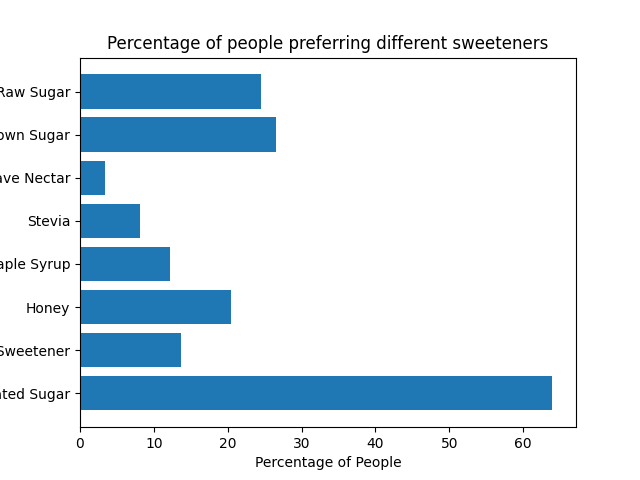
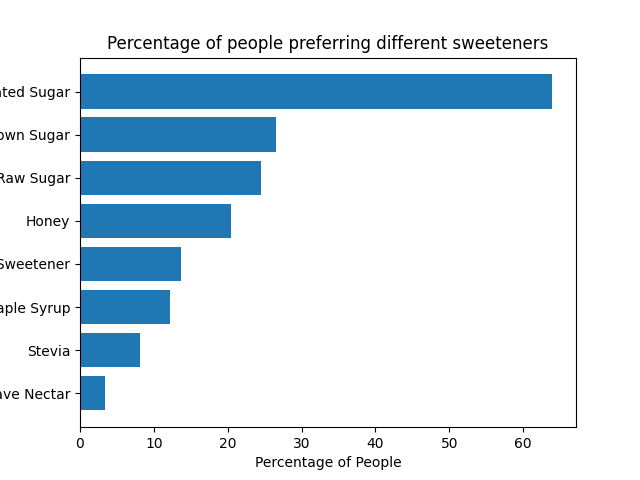
Data cleaning - Coffee brewing methods

diff --git a/src/main.py b/src/main.py
@@ -109,6 +109,8 @@ print(sweeteners)
 # Find the percentage of sweeteners perferred.
 sweeteners_choice = sweeteners.mean() * 100
 print("\nPercentage of customers that prefers each sweeteners:")
+
+sweeteners_choice = sweeteners_choice.sort_values()
 print(sweeteners_choice)
 sweeteners_choice.to_csv("output/sweeteners_choice.csv")
 
@@ -117,4 +119,56 @@ plt.xlabel("Percentage of People")
 plt.ylabel("Sweeteners prefered")
 plt.title("Percentage of people preferring different sweeteners")
 plt.savefig("output/figures/people-and-their-sweetener-choices.png")
+plt.show()
+
+
+# identify the brewing methods coffee shop offer to meet customer satisfaction
+brewing_methods_field_names = [
+    'How do you brew your coffee? (Pour over)',
+    'How do you brew your coffee? (French press)',
+    'How do you brew your coffee? (Espresso)',
+    'How do you brew your coffee? (Coffee brewing machine)',
+    'How do you brew your coffee? (Pod/capsule machine)',
+    'How do you brew your coffee? (Instant coffee)',
+    'How do you brew your coffee? (Bean-to-cup machine)',
+    'How do you brew your coffee? (Cold brew)',
+    'How do you brew your coffee? (Coffee extract)'
+]
+
+brewing_methods_field_name_map = {
+    'How do you brew your coffee? (Pour over)': 'Pour over',
+    'How do you brew your coffee? (French press)': 'French press',
+    'How do you brew your coffee? (Espresso)': 'Espresso',
+    'How do you brew your coffee? (Coffee brewing machine)': 'Coffe brewing machine',
+    'How do you brew your coffee? (Pod/capsule machine)': 'Pod/capsule machine',
+    'How do you brew your coffee? (Instant coffee)': 'Instant coffee',
+    'How do you brew your coffee? (Bean-to-cup machine)': 'Bean-to-cup machine',
+    'How do you brew your coffee? (Cold brew)': 'Cold brew',
+    'How do you brew your coffee? (Coffee extract)': 'Coffee extract'
+}
+
+brewing_methods = df[brewing_methods_field_names]
+brewing_methods = brewing_methods.rename(columns=brewing_methods_field_name_map)
+print("\n\nNew dataframe that shows the brewing method preferences:")
+print(brewing_methods)
+
+print("\nCount of brewing methods not preferred by any:")
+print(brewing_methods.isna().sum())
+
+brewing_methods = brewing_methods.dropna()
+print("\nBrewing method preferences:")
+print(brewing_methods)
+
+brewing_methods_preferred = brewing_methods.mean() * 100
+print("\nPercentage of brewing methods preferred:")
+
+brewing_methods_preferred = brewing_methods_preferred.sort_values()
+print(brewing_methods_preferred)
+brewing_methods_preferred.to_csv("output/brewing_methods_preference.csv")
+
+plt.barh(brewing_methods_preferred.index, brewing_methods_preferred)
+plt.title("Percentage of people preferring different brewing methods")
+plt.xlabel("Percentage of People")
+plt.ylabel("Brewing methods")
+plt.savefig("output/figures/people-and-their-brewing-methods-choices.png")
 plt.show()
